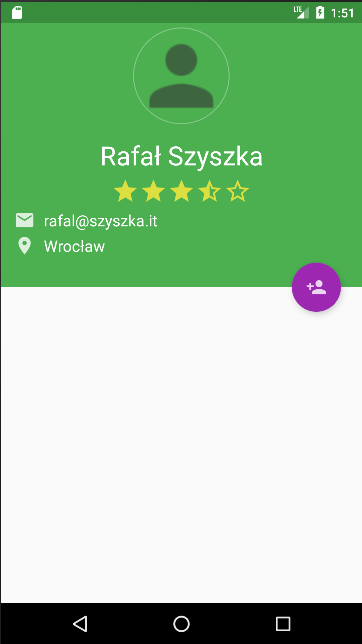
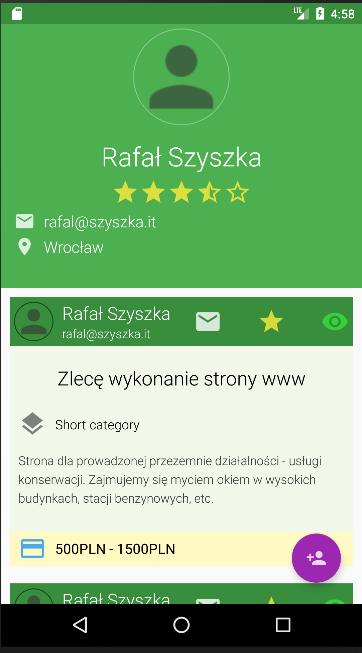
opinion layout

diff --git a/app/src/main/java/it/szyszka/skillmarket/SignInActivity.java b/app/src/main/java/it/szyszka/skillmarket/SignInActivity.java
@@ -4,6 +4,9 @@ import android.support.annotation.NonNull;
 import android.support.annotation.Nullable;
 import android.support.v7.app.AppCompatActivity;
 import android.os.Bundle;
+import android.support.v7.widget.DefaultItemAnimator;
+import android.support.v7.widget.LinearLayoutManager;
+import android.support.v7.widget.RecyclerView;
 import android.support.v7.widget.Toolbar;
 import android.view.LayoutInflater;
 import android.view.View;
@@ -47,28 +50,13 @@ public class SignInActivity extends AppCompatActivity {
         ArrayList<Offer> offers = new ArrayList<>();
         populateArray(offers);
 
-        ListView list = (ListView) findViewById(R.id.user_profile_offers);
+        RecyclerView recyclerView = (RecyclerView) findViewById(R.id.user_profile_offers);
+        recyclerView.setHasFixedSize(true);
+        recyclerView.setLayoutManager(new LinearLayoutManager(this));
+        recyclerView.setItemAnimator(new DefaultItemAnimator());
+        recyclerView.setNestedScrollingEnabled(false);
 
-        list.setAdapter(new ArrayAdapter<Offer>(SignInActivity.this, 0, offers){
-            @Override
-            public View getView(int position, View convertView, ViewGroup parent) {
-                if(convertView == null) {
-                    convertView = LayoutInflater.from(SignInActivity.this).inflate(R.layout.module_c_offer_item, parent, false);
-                }
-
-                ((TextView)convertView.findViewById(R.id.offer_item_owner)).setText(getItem(position).showOfferOwner());
-                ((TextView)convertView.findViewById(R.id.offer_item_owner_email)).setText(getItem(position).showOfferOwnerEmail());
-                ((TextView)convertView.findViewById(R.id.offer_item_title)).setText(getItem(position).showTitle());
-                ((TextView)convertView.findViewById(R.id.offer_item_category)).setText(getItem(position).showCategory());
-                ((TextView)convertView.findViewById(R.id.offer_item_short_description)).setText(getItem(position).showDescription(false));
-                ((TextView)convertView.findViewById(R.id.offer_item_payment)).setText(getItem(position).showPaymentDetails());
-
-                convertView.setPadding(20,20,20,20);
-
-                return convertView;
-            }
-        });
-
+        recyclerView.setAdapter(new MyAdapter(offers, recyclerView));
 
     }
 
@@ -83,6 +71,58 @@ public class SignInActivity extends AppCompatActivity {
             offer.setCategory(categories[i]);
             offer.attachPaymentDetails(payments[i]);
             offers.add(offer);
+        }
+    }
+
+    private class MyAdapter extends RecyclerView.Adapter {
+
+        private ArrayList<Offer> offers;
+        private RecyclerView recyclerView;
+
+        private class OfferViewHolder extends RecyclerView.ViewHolder {
+            public TextView owner, ownerEmail, title, description, paymentDetails;
+
+            public OfferViewHolder(View parent) {
+                super(parent);
+                owner = parent.findViewById(R.id.offer_item_owner);
+                ownerEmail  =parent.findViewById(R.id.offer_item_owner_email);
+                title = parent.findViewById(R.id.offer_item_title);
+                description = parent.findViewById(R.id.offer_item_short_description);
+                paymentDetails = parent.findViewById(R.id.offer_item_payment);
+            }
+
+        }
+
+        public MyAdapter(ArrayList<Offer> offers, RecyclerView recyclerView) {
+            this.offers = offers;
+            this.recyclerView = recyclerView;
+        }
+
+        @Override
+        public RecyclerView.ViewHolder onCreateViewHolder(ViewGroup parent, int viewType) {
+            View view = LayoutInflater.from(parent.getContext())
+                    .inflate(R.layout.module_c_offer_item, parent, false);
+
+            return new OfferViewHolder(view);
+
+        }
+
+        @Override
+        public void onBindViewHolder(RecyclerView.ViewHolder holder, int position) {
+            OfferViewHolder myHolder = (OfferViewHolder) holder;
+            Offer offer = offers.get(position);
+
+            myHolder.owner.setText("Rafał Szyszka");
+            myHolder.ownerEmail.setText("rafal@szyszka.it");
+            myHolder.title.setText(offer.showTitle());
+            myHolder.description.setText(offer.showDescription(false));
+            myHolder.paymentDetails.setText(offer.showPaymentDetails());
+
+        }
+
+        @Override
+        public int getItemCount() {
+            return offers.size();
         }
     }
 }
